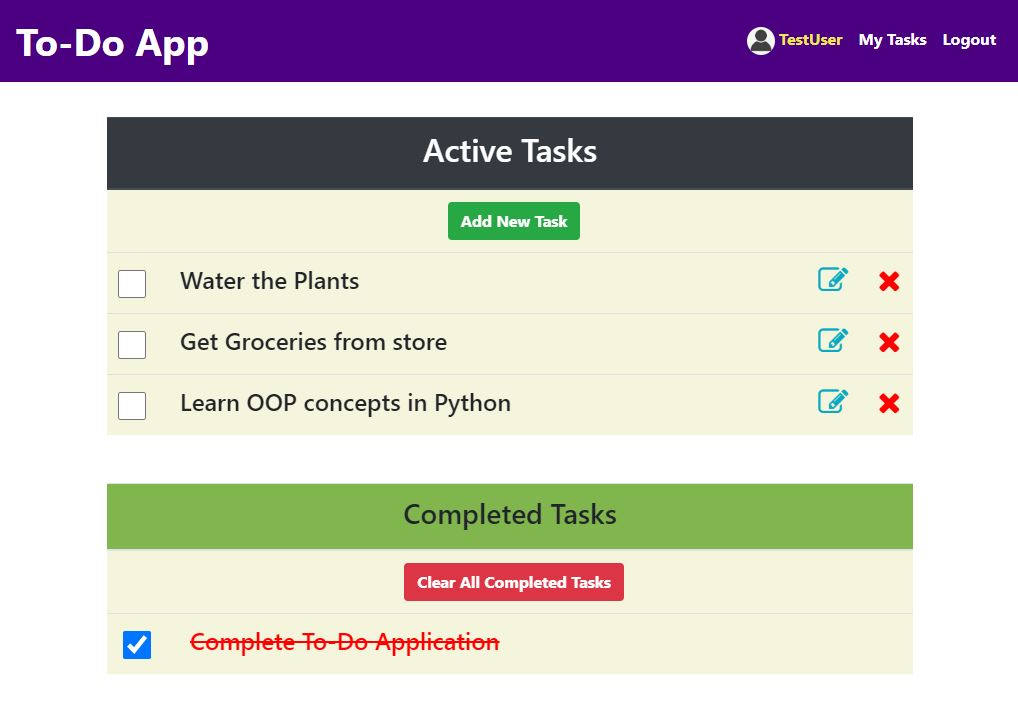
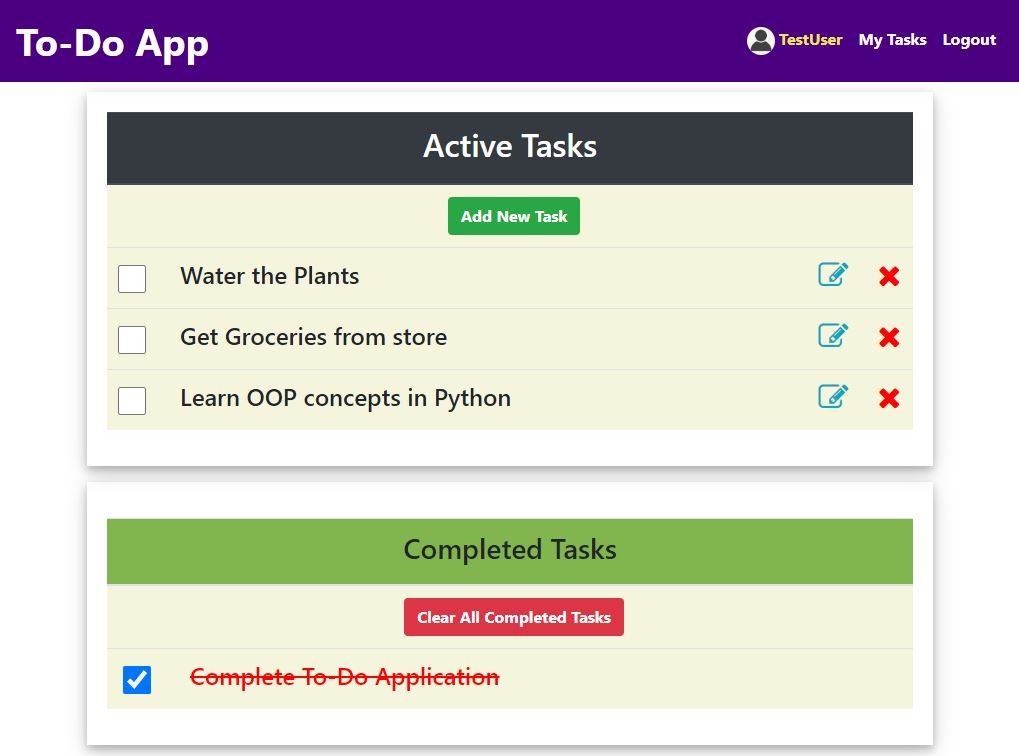
Worked on UI

diff --git a/to_do/templates/to_do_app/tasks.html b/to_do/templates/to_do_app/tasks.html
@@ -1,7 +1,7 @@
 {% extends "to_do_app/base.html" %}
 {% block content %}
 
-<div class="container" id="list-container">
+<div class="container" id="list-container1">
 
 	<table class="table table-hover" id="maintable">
 		<thead class="thead-dark">
@@ -9,6 +9,7 @@
 				<h2>Active Tasks</h2>
 			</th>
 		</thead>
+
 		<tbody>
 			<tr>
 				<td colspan=4>
@@ -37,7 +38,8 @@
 			{% endfor %}
 		</tbody>
 	</table>
-
+</div>
+<div class="container mt-3" id="list-container2">
 	<table class="table mt-3" id="completed-table">
 		<thead class="thead-green">
 			<th colspan=4>
@@ -54,7 +56,9 @@
 			{% for task in tasks %}
 			{% if task.is_checked %}
 			<tr>
-				<td><input type="checkbox" title="Mark as Undone" class="form-check-input mark_as_undone"
+				<td>
+					
+					<input type="checkbox" title="Mark as Undone" class="form-check-input mark_as_undone"
 						id="{{ task.pk }}" checked></td>
 				<td>
 					<h4 class="text-left completed_tasks" id="title{{ task.pk }}">{{ task.task_title }}</h4>

diff --git a/to_do/static/to_do_app/main.css b/to_do/static/to_do_app/main.css
@@ -66,11 +66,11 @@ body {
     background-color: indigo;
 }
 
-#list-container {
+#list-container1, #list-container2 {
     text-align: center;
     padding: 20px;
     width: 90%;
-    /*box-shadow: 0 4px 8px 0 rgba(0, 0, 0, 0.2), 0 6px 20px 0 rgba(0, 0, 0, 0.19);*/
+    box-shadow: 0 4px 8px 0 rgba(0, 0, 0, 0.2), 0 6px 20px 0 rgba(0, 0, 0, 0.19);
 }
 
 .auth-section {
@@ -130,4 +130,8 @@ table>table {
     font-size: 22px;
     border-radius: 36px;
     width: 120px;
+}
+
+#tag_line {
+    display: none;
 }

diff --git a/to_do/templates/to_do_app/index.html b/to_do/templates/to_do_app/index.html
@@ -3,8 +3,9 @@
 <div class="jumbotron text-center homepage_div">
     <h1 class="homepage_title">Welcome to <span style="color: rgb(233, 241, 107); font-weight: bold;">#To-Do</span> App
     </h1>
-    <small class="tag_line">
-        #All your tasks at one place</small>
+    <div id="tag_line">
+    <small class="tag_line">#All your tasks at one place</small>
+    </div>
 </div>
 <div class=" text-center mt-5">
     <div class="btn-group">

diff --git a/to_do/static/to_do_app/script.js b/to_do/static/to_do_app/script.js
@@ -1,5 +1,5 @@
 $(document).ready(function () {
-
+    $("#tag_line").fadeIn("slow");
     //Variable that stores the ID of the current active editable task
     var active_edit_task_id = null;
     var active_edit_task = null;
